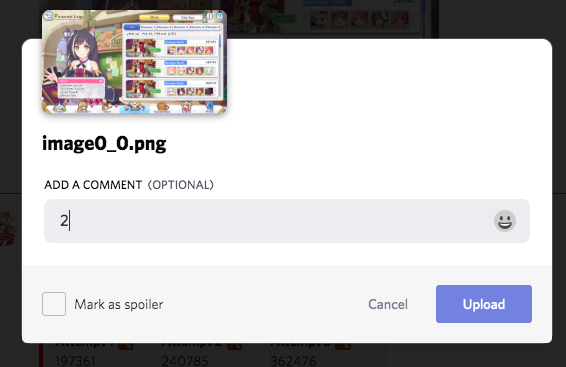
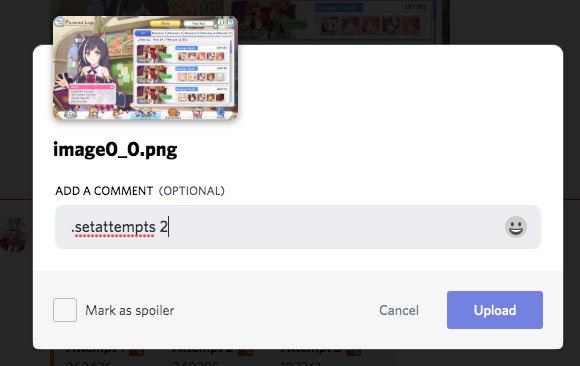
new

diff --git a/index.js b/index.js
@@ -1047,8 +1047,10 @@ const getOcrImage = msgAttach => {
 /** @param {import("discord.js").Message} message */
 const returnOCR = async (message, args) => {
     const maxAttempts = 3;
+    console.log(message.content);
+    console.log(args);
     let attemptsInImg = 3;
-    if (message.content === `${prefix}setattempts`) {
+    if (message.content.trim() === `${prefix}setattempts`) {
         attemptsInImg = parseFirstArgAsInt(args, maxAttempts);
         if (attemptsInImg > maxAttempts || attemptsInImg < 1) {
             attemptsInImg = maxAttempts;
@@ -1227,7 +1229,7 @@ const help = message => {
         `**${prefix}character** *[mandatory character name(no stars)]* to view full art of a character you've obtained from gacha \n\n\n` + 
         `**__Nozomi Bot Clan Battle Tracker__**\n\n` +
         `Upload a screenshot of the game as an attachment and user optional **.setattempts** *[optional single digit 1-3 (default 3)]* as a comment.\n` +
-        `This optional parameter will be used to specify how many attempts are visible (Top > Down) on the screenshot\n` 
+        `This optional parameter will be used to specify how many attempts are visible (Top > Down) on the screenshot\n\n` +
         `Aside from minigames, Nozomi Bot can also serve as a clan battle damage tracker!\n` +
         `To use Nozomi Bot clan track functionality, you must upload an image of the damage attempts for the day to discord.\n` +
         `An example image is provide below, although the image you upload does not necessarily need to be identical, \n` +
@@ -1271,14 +1273,15 @@ const help = message => {
         .setAuthor(client.user.username, client.user.avatarURL())
         .setTitle(`Setting Nozomi Bot To Only Search For 2 Attempts In Image`)
         .setDescription(`Example Screenshot For Clan Battle`)
-        .attachFiles(['./img/ex3.png'])
-        .setImage('attachment://ex3.png')
+        .attachFiles(['./img/ex4.png'])
+        .setImage('attachment://ex4.png')
         .setFooter(footerText, client.user.avatarURL())
         .setTimestamp();
     
     message.author.send(ex1);
     message.author.send(ex2);
     message.author.send(ex3);
+    message.author.send(ex4);
 }
 
 
